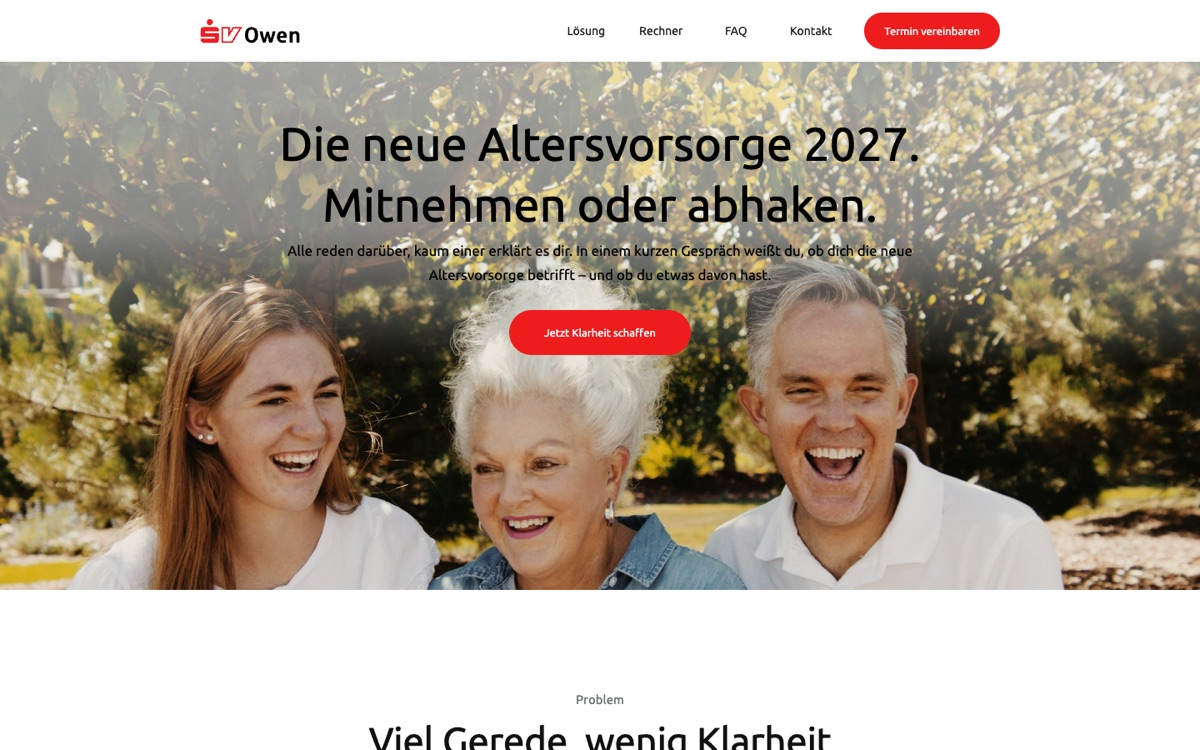
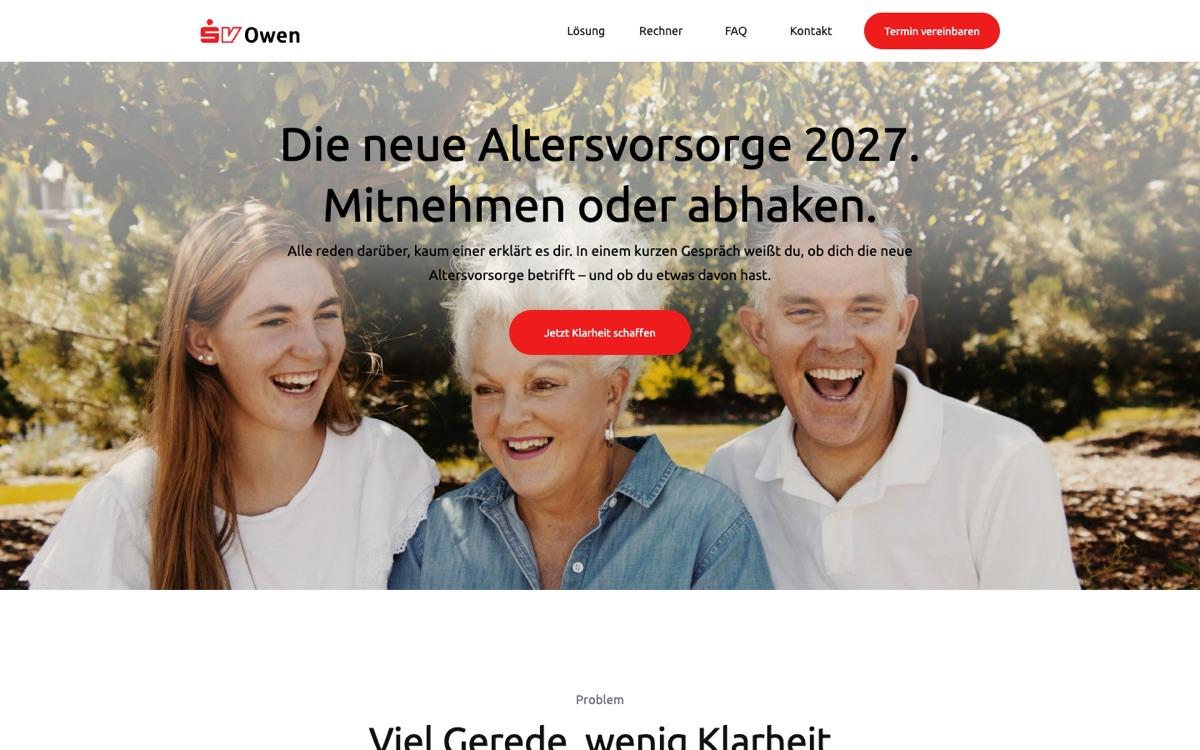
AVRG Landingpage 1: Bildausschnitt angepasst – Personen weiter oben, mehr Oberkörper sichtbar

diff --git a/site/projekte/avrg.html b/site/projekte/avrg.html
@@ -689,15 +689,15 @@ if(document.readyState==='loading')document.addEventListener('DOMContentLoaded',
       <p class="e2-kicker">Landingpage &middot; drei Varianten</p>
       <div class="ak-varianten">
         <a class="ak-karte lpv" href="/projekte/avrg-landingpage-1.html">
-          <span class="lpv-fenster"><span class="lpv-leiste"><i></i><i></i><i></i><span>agentur-beispiel.de/neue-altersvorsorge</span></span><span class="lpv-seite"><img src="/assets/projekte/avrg/lp-vorschau-voll-1.jpg?v=6" alt="Vorschau der ganzen Landingpage, Variante 1" loading="lazy"></span><span class="lpv-hinweis">Zum Durchscrollen darüberfahren</span></span>
+          <span class="lpv-fenster"><span class="lpv-leiste"><i></i><i></i><i></i><span>agentur-beispiel.de/neue-altersvorsorge</span></span><span class="lpv-seite"><img src="/assets/projekte/avrg/lp-vorschau-voll-1.jpg?v=7" alt="Vorschau der ganzen Landingpage, Variante 1" loading="lazy"></span><span class="lpv-hinweis">Zum Durchscrollen darüberfahren</span></span>
           <span class="ak-karte-text"><small>Landingpage &middot; Variante 1</small><b>Nah an der Vorlage</b><p>Kopf und Aufmacher exakt wie die bestehenden Landingpages von SV Owen: Foto über die volle Breite, Text mittig, roter Knopf. Darunter Problem, Lösung, Rechner, Termin.</p><span class="ak-pfeil">Variante 1 öffnen &rarr;</span></span>
         </a>
         <a class="ak-karte lpv" href="/projekte/avrg-landingpage-2.html">
-          <span class="lpv-fenster"><span class="lpv-leiste"><i></i><i></i><i></i><span>agentur-beispiel.de/neue-altersvorsorge-2</span></span><span class="lpv-seite"><img src="/assets/projekte/avrg/lp-vorschau-voll-2.jpg?v=6" alt="Vorschau der ganzen Landingpage, Variante 2" loading="lazy"></span><span class="lpv-hinweis">Zum Durchscrollen darüberfahren</span></span>
+          <span class="lpv-fenster"><span class="lpv-leiste"><i></i><i></i><i></i><span>agentur-beispiel.de/neue-altersvorsorge-2</span></span><span class="lpv-seite"><img src="/assets/projekte/avrg/lp-vorschau-voll-2.jpg?v=7" alt="Vorschau der ganzen Landingpage, Variante 2" loading="lazy"></span><span class="lpv-hinweis">Zum Durchscrollen darüberfahren</span></span>
           <span class="ak-karte-text"><small>Landingpage &middot; Variante 2</small><b>Was trifft auf dich zu?</b><p>Gleiche Farben und Elemente, eigene Story: Der Besucher wählt oben seine Lebenslage, die Seite antwortet mit seiner Frage. Dann das Gespräch als Zeitleiste.</p><span class="ak-pfeil">Variante 2 öffnen &rarr;</span></span>
         </a>
         <a class="ak-karte lpv" href="/projekte/avrg-landingpage-3.html">
-          <span class="lpv-fenster"><span class="lpv-leiste"><i></i><i></i><i></i><span>agentur-beispiel.de/neue-altersvorsorge-3</span></span><span class="lpv-seite"><img src="/assets/projekte/avrg/lp-vorschau-voll-3.jpg?v=6" alt="Vorschau der ganzen Landingpage, Variante 3" loading="lazy"></span><span class="lpv-hinweis">Zum Durchscrollen darüberfahren</span></span>
+          <span class="lpv-fenster"><span class="lpv-leiste"><i></i><i></i><i></i><span>agentur-beispiel.de/neue-altersvorsorge-3</span></span><span class="lpv-seite"><img src="/assets/projekte/avrg/lp-vorschau-voll-3.jpg?v=7" alt="Vorschau der ganzen Landingpage, Variante 3" loading="lazy"></span><span class="lpv-hinweis">Zum Durchscrollen darüberfahren</span></span>
           <span class="ak-karte-text"><small>Landingpage &middot; Variante 3</small><b>Das Klarheits-Ticket</b><p>Maßstab Volksfest-Seite: ein rotes Ticket „15 Minuten Klarheit“ als Bildidee, fünf Menschen, fünf Fragen, kräftige Flächen.</p><span class="ak-pfeil">Variante 3 öffnen &rarr;</span></span>
         </a>
       </div>

diff --git a/site/projekte/avrg-medienkonzept.html b/site/projekte/avrg-medienkonzept.html
@@ -739,10 +739,10 @@ if(document.readyState==='loading')document.addEventListener('DOMContentLoaded',
       <p class="e2-lead">Drei Varianten zur Auswahl. Jeder Baustein beantwortet eine Frage, die der Besucher in diesem Moment hat – und führt zum Termin.</p>
       <div class="ak-lp" style="margin-top:clamp(32px,4vw,48px)">
         <div>
-          <div class="mk-varianten"><button type="button" class="mk-variante" data-v="1" aria-pressed="true"><img src="/assets/projekte/avrg/lp-vorschau-1.jpg?v=6" alt="">Variante 1 · Vorlage</button><button type="button" class="mk-variante" data-v="2" aria-pressed="false"><img src="/assets/projekte/avrg/lp-vorschau-2.jpg?v=6" alt="">Variante 2 · Lebenslage</button><button type="button" class="mk-variante" data-v="3" aria-pressed="false"><img src="/assets/projekte/avrg/lp-vorschau-3.jpg?v=6" alt="">Variante 3 · Ticket</button></div>
+          <div class="mk-varianten"><button type="button" class="mk-variante" data-v="1" aria-pressed="true"><img src="/assets/projekte/avrg/lp-vorschau-1.jpg?v=7" alt="">Variante 1 · Vorlage</button><button type="button" class="mk-variante" data-v="2" aria-pressed="false"><img src="/assets/projekte/avrg/lp-vorschau-2.jpg?v=7" alt="">Variante 2 · Lebenslage</button><button type="button" class="mk-variante" data-v="3" aria-pressed="false"><img src="/assets/projekte/avrg/lp-vorschau-3.jpg?v=7" alt="">Variante 3 · Ticket</button></div>
           <div class="ak-browser">
             <div class="ak-browser-bar"><i></i><i></i><i></i><span id="mk-lp-url">agentur-beispiel.de/neue-altersvorsorge</span></div>
-            <div class="ak-browser-seite" tabindex="0" aria-label="Vorschau der Landingpage, scrollbar"><img id="mk-lp-bild" src="/assets/projekte/avrg/lp-vorschau-voll-1.jpg?v=6" alt="Vorschau der gesamten Landingpage"></div>
+            <div class="ak-browser-seite" tabindex="0" aria-label="Vorschau der Landingpage, scrollbar"><img id="mk-lp-bild" src="/assets/projekte/avrg/lp-vorschau-voll-1.jpg?v=7" alt="Vorschau der gesamten Landingpage"></div>
           </div>
           <p class="ak-browser-hinweis">Vorschau zum Durchscrollen &middot; die echten Seiten sind voll klickbar</p>
         </div>

diff --git a/site/assets/projekte/avrg/avrg-v1.css b/site/assets/projekte/avrg/avrg-v1.css
@@ -19,7 +19,7 @@
 .lp1-held{position:relative;height:max(600px,44vw);overflow:hidden;background:#8a8a6a}
 /* Wie im Original: Foto beginnt direkt unter der weißen Kopfzeile und füllt den ganzen Aufmacher.
    Nur ein leichter heller Schleier hinter dem Text, damit die schwarze Schrift auf dem Laub lesbar bleibt. */
-.lp1-held__bild{position:absolute;inset:0;width:100%;height:100%;object-fit:cover;object-position:50% 16%}
+.lp1-held__bild{position:absolute;inset:0;width:100%;height:100%;object-fit:cover;object-position:50% 45%}
 .lp1-held::before{content:"";position:absolute;inset:0 0 auto;height:58%;z-index:1;background:linear-gradient(180deg,rgba(255,255,255,.62) 0%,rgba(255,255,255,.5) 55%,rgba(255,255,255,0) 100%)}
 .lp1-held__text{position:relative;z-index:2;max-width:836px;margin:0 auto;padding:62px 20px 0;text-align:center}
 .lp1-held h1{font:400 56px/73px 'Ubuntu',sans-serif;color:#000;letter-spacing:0;margin:0}

diff --git a/site/assets/projekte/avrg/mk.js b/site/assets/projekte/avrg/mk.js
@@ -36,7 +36,7 @@
     b.addEventListener('click', function () {
       var v = b.dataset.v;
       $$('.mk-variante').forEach(function (x) { x.setAttribute('aria-pressed', x === b ? 'true' : 'false'); });
-      $('#mk-lp-bild').src = '/assets/projekte/avrg/lp-vorschau-voll-' + v + '.jpg?v=6';
+      $('#mk-lp-bild').src = '/assets/projekte/avrg/lp-vorschau-voll-' + v + '.jpg?v=7';
       $('.ak-browser-seite').scrollTop = 0;
       $('#mk-lp-url').textContent = 'agentur-beispiel.de/neue-altersvorsorge' + (v === '1' ? '' : '-' + v);
       $$('.mk-bausteine').forEach(function (l) { l.hidden = l.dataset.v !== v; });

diff --git a/site/projekte/avrg-landingpage-1.html b/site/projekte/avrg-landingpage-1.html
@@ -7,7 +7,7 @@
 <meta name="description" content="Die neue geförderte Altersvorsorge ab 2027: In 15 Minuten weißt du, ob sie dich betrifft und ob du einen Vorteil hast.">
 <meta name="robots" content="noindex, nofollow">
 <link rel="stylesheet" href="/assets/projekte/avrg/avrg.css?v=2">
-<link rel="stylesheet" href="/assets/projekte/avrg/avrg-v1.css?v=6">
+<link rel="stylesheet" href="/assets/projekte/avrg/avrg-v1.css?v=7">
 </head>
 <body>
 <svg width="0" height="0" style="position:absolute" aria-hidden="true"><defs>
